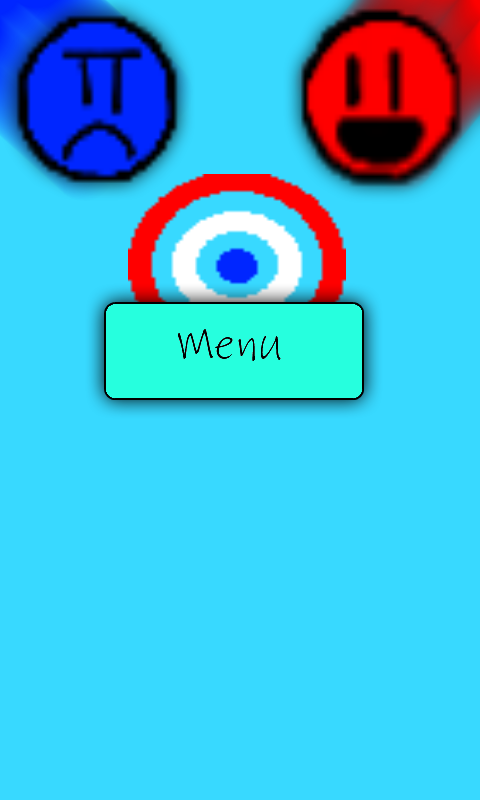
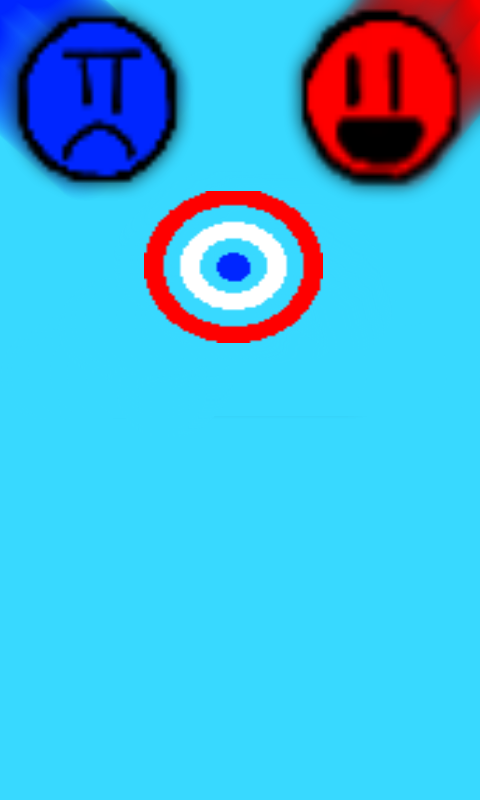
ver 9.1

Changed region(s): [[0.1875, 0.2188, 0.7812, 0.5312]]

diff --git a/kanonSpill/kanonSpill/kanonSpill/CannonGame.cs b/kanonSpill/kanonSpill/kanonSpill/CannonGame.cs
@@ -79,16 +79,16 @@ namespace CannonGame
             SpriteBatch = new SpriteBatch(GraphicsDevice);
 
             GameStates.Add(new SimpleSplash(SpriteBatch, Content, "Images/introScreen", 0));
-            GameStates.Add(new menuSplash(SpriteBatch, Content, "Images/mainMenu", 
+            GameStates.Add(new menuSplash(SpriteBatch, Content, "Images/menu", 
                 "Images/playButton", "Images/howToPlayButton", "Images/creditsButton", "Images/quitButton", 1));
-            GameStates.Add(new SimpleSplash(SpriteBatch, Content, "Images/howToPlay1", 2));
-            GameStates.Add(new SimpleSplash(SpriteBatch, Content, "Images/howToPlay2", 3));
-            GameStates.Add(new SimpleSplash(SpriteBatch, Content, "Images/credits", 4));
-            GameStates.Add(new LevelSelecter(SpriteBatch, Content, "", 5));
-            GameStates.Add(new menuSplash(SpriteBatch, Content, "Images/winSplash",
-                "Images/playButton", "Images/howToPlayButton", "Images/creditsButton", "Images/quitButton", 6));
-            GameStates.Add(new menuSplash(SpriteBatch, Content, "Images/loseSplash",
-                "Images/playButton", "Images/howToPlayButton", "Images/creditsButton", "Images/quitButton", 7));
+            GameStates.Add(new SimpleSplash(SpriteBatch, Content, "Images/introScreen", 2));
+            GameStates.Add(new SimpleSplash(SpriteBatch, Content, "Images/createdBy", 3));
+            GameStates.Add(new SimpleSplash(SpriteBatch, Content, "Images/createdBy", 4));
+            GameStates.Add(new LevelSelecter(SpriteBatch, Content, "Images/selectLevel", 5));
+            GameStates.Add(new menuSplash(SpriteBatch, Content, "Images/levelCleared",
+                "Images/replayButton", "Images/nextLevel", "Images/selectLevelButton2", "Images/menuButton2", 6));
+            GameStates.Add(new menuSplash(SpriteBatch, Content, "Images/gameOver",
+                "Images/tryAgainButton", "Images/selectLevelButton", "Images/menuButton", "Images/RAGEQUITbutton", 7));
             GameStates.Add(new Level1(SpriteBatch, Content, 8));
             GameStates.Add(new Level2(SpriteBatch, Content, 9));
             GameStates.Add(new jaLevel3(SpriteBatch, Content, 10));

diff --git a/kanonSpill/kanonSpill/kanonSpill/menuSplash.cs b/kanonSpill/kanonSpill/kanonSpill/menuSplash.cs
@@ -89,11 +89,13 @@ namespace CannonGame
 
         public override void  Draw()
         {
- 	        base.Draw();
+
             SpriteBatch.Draw(button1Texture, button1, Color.White);
             SpriteBatch.Draw(button2Texture, button2, Color.White);
             SpriteBatch.Draw(button3Texture, button3, Color.White);
             SpriteBatch.Draw(button4Texture, button4, Color.White);
+
+            base.Draw();
         }
     }
 }

diff --git a/kanonSpill/kanonSpill/kanonSpill/LevelSelecter.cs b/kanonSpill/kanonSpill/kanonSpill/LevelSelecter.cs
@@ -24,7 +24,7 @@ namespace CannonGame
             : base(spriteBatch, content, backTexture, gameStateIndex)
         {
             font = Content.Load<SpriteFont>("Font");
-            button = Content.Load<Texture2D>("");
+            button = Content.Load<Texture2D>("Images/whiteButton");
 
             level1 = new Rectangle(180, 400, 120, 50);
             level2 = new Rectangle(180, 470, 120, 50);
